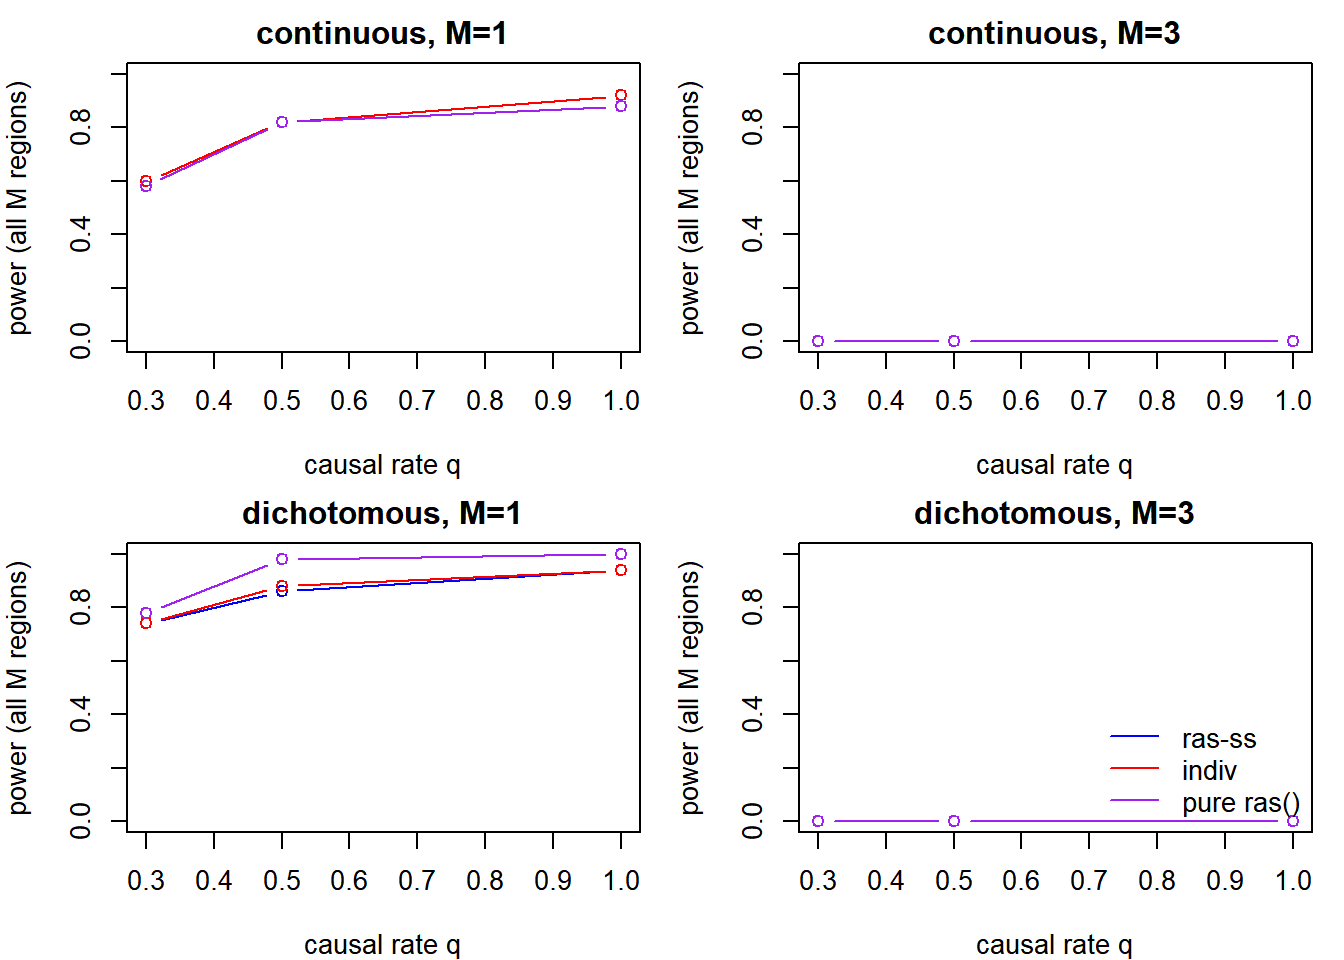
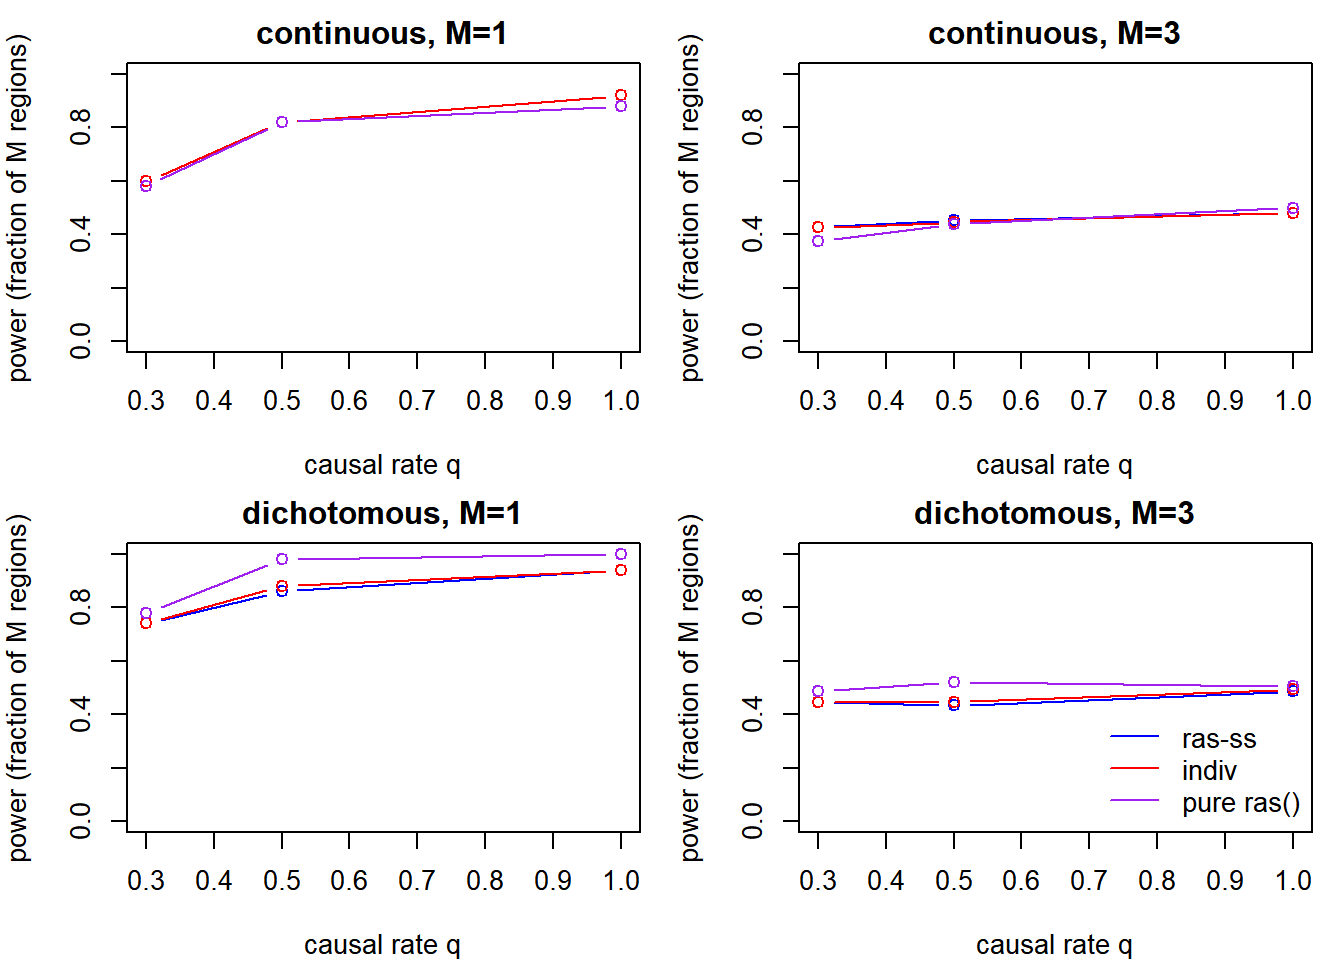
improve clarity for first few chunks

diff --git a/docs/03_simulation.html b/docs/03_simulation.html
@@ -532,15 +532,15 @@ project makes it easier to run your code on other machines.</p>
 <div class="panel panel-default">
 <div class="panel-heading">
 <p class="panel-title">
-<a data-toggle="collapse" data-parent="#workflowr-checks" href="#strongRepositoryversionstrongahrefhttpsansonli8githubcomansonli8rassstreea7769420beb51d1c0245b3f5682bed089a733b7atargetblanka776942a">
+<a data-toggle="collapse" data-parent="#workflowr-checks" href="#strongRepositoryversionstrongahrefhttpsansonli8githubcomansonli8rassstree6d83792f967585a6b3da43d0a43126d2503ef939targetblank6d83792a">
 <span class="glyphicon glyphicon-ok text-success"
 aria-hidden="true"></span> <strong>Repository version:</strong>
-<a href="https://anson-li8@github.com/anson-li8/ras-ss/tree/a7769420beb51d1c0245b3f5682bed089a733b7a" target="_blank">a776942</a>
+<a href="https://anson-li8@github.com/anson-li8/ras-ss/tree/6d83792f967585a6b3da43d0a43126d2503ef939" target="_blank">6d83792</a>
 </a>
 </p>
 </div>
 <div
[2 lines of base64/hex data omitted]
 class="panel-collapse collapse">
 <div class="panel-body">
 <p>
@@ -550,7 +550,7 @@ reproducibility.
 </p>
 <p>
 The results in this page were generated with repository version
-<a href="https://anson-li8@github.com/anson-li8/ras-ss/tree/a7769420beb51d1c0245b3f5682bed089a733b7a" target="_blank">a776942</a>.
+<a href="https://anson-li8@github.com/anson-li8/ras-ss/tree/6d83792f967585a6b3da43d0a43126d2503ef939" target="_blank">6d83792</a>.
 See the <em>Past versions</em> tab to see a history of the changes made
 to the R Markdown and HTML files.
 </p>
@@ -617,6 +617,40 @@ Message
 </tr>
 </thead>
 <tbody>
+<tr>
+<td>
+Rmd
+</td>
+<td>
+<a href="https://anson-li8@github.com/anson-li8/ras-ss/blob/6d83792f967585a6b3da43d0a43126d2503ef939/analysis/03_simulation.Rmd" target="_blank">6d83792</a>
+</td>
+<td>
+Anson Li
+</td>
+<td>
+2026-08-12
+</td>
+<td>
+check following the all M regions metric original paper used
+</td>
+</tr>
+<tr>
+<td>
+html
+</td>
+<td>
+<a href="https://anson-li8@github.com/anson-li8/ras-ss/blob/6d83792f967585a6b3da43d0a43126d2503ef939/docs/03_simulation.html" target="_blank">6d83792</a>
+</td>
+<td>
+Anson Li
+</td>
+<td>
+2026-08-12
+</td>
+<td>
+check following the all M regions metric original paper used
+</td>
+</tr>
 <tr>
 <td>
 Rmd
@@ -3998,13 +4032,20 @@ cheaper than 5-averaged pure)</caption>
 </tr>
 </tbody>
 </table>
-<pre class="r"><code># Fig 2: power (all M regions) vs q, clean lines (CIs live in the tables)
+<pre class="r"><code># per-region detection rate (the informative metric on synthetic saturated peaks)
+res$ss_pow &lt;- 1 - res$ss_fn / res$M
+res$in_pow &lt;- 1 - res$in_fn / res$M
+res$pu_pow &lt;- 1 - res$pu_fn / res$M
+agg &lt;- aggregate(cbind(ss_pow, in_pow, pu_pow, ss_power, in_power, pu_power,
+                       ss_fpr, in_fpr, pu_fpr) ~ trait + M + q, data=res, mean)
+
+# Fig 2: power (fraction of M regions detected) vs q
 par(mfrow=c(2,2), mar=c(4,4,2,1))
 for (tr in traits) for (M in M_vals) {
   a &lt;- agg[agg$trait==tr &amp; agg$M==M,]
-  plot(a$q, a$ss_power, type=&quot;b&quot;, col=&quot;blue&quot;, ylim=c(0,1), xlab=&quot;causal rate q&quot;,
-       ylab=&quot;power (all M regions)&quot;, main=sprintf(&quot;%s, M=%d&quot;, tr, M))
-  lines(a$q, a$in_power, type=&quot;b&quot;, col=&quot;red&quot;); lines(a$q, a$pu_power, type=&quot;b&quot;, col=&quot;purple&quot;)
+  plot(a$q, a$ss_pow, type=&quot;b&quot;, col=&quot;blue&quot;, ylim=c(0,1), xlab=&quot;causal rate q&quot;,
+       ylab=&quot;power (fraction of M regions)&quot;, main=sprintf(&quot;%s, M=%d&quot;, tr, M))
+  lines(a$q, a$in_pow, type=&quot;b&quot;, col=&quot;red&quot;); lines(a$q, a$pu_pow, type=&quot;b&quot;, col=&quot;purple&quot;)
 }
 legend(&quot;bottomright&quot;, legend=c(&quot;ras-ss&quot;,&quot;indiv&quot;,&quot;pure ras()&quot;), col=c(&quot;blue&quot;,&quot;red&quot;,&quot;purple&quot;), lty=1, bty=&quot;n&quot;)</code></pre>
 <p><img src="figure/03_simulation.Rmd/results-1.png" alt="" width="672" style="display: block; margin: auto;" /></p>
@@ -4032,6 +4073,17 @@ Date
 <tbody>
 <tr>
 <td>
+<a href="https://anson-li8@github.com/anson-li8/ras-ss/blob/6d83792f967585a6b3da43d0a43126d2503ef939/docs/figure/03_simulation.Rmd/results-1.png" target="_blank">6d83792</a>
+</td>
+<td>
+Anson Li
+</td>
+<td>
+2026-08-12
+</td>
+</tr>
+<tr>
+<td>
 <a href="https://anson-li8@github.com/anson-li8/ras-ss/blob/a7769420beb51d1c0245b3f5682bed089a733b7a/docs/figure/03_simulation.Rmd/results-1.png" target="_blank">a776942</a>
 </td>
 <td>
@@ -4045,12 +4097,12 @@ Anson Li
 </table>
 </div>
 </div>
-<pre class="r"><code># Faithfulness as an equivalence scatter: points ON the diagonal = agreement
+<pre class="r"><code># Faithfulness scatter on the same per-region metric (points on diagonal = agreement)
 par(mfrow=c(1,2), mar=c(4,4,2,1))
-plot(agg$in_power, agg$ss_power, xlim=c(0,1), ylim=c(0,1), pch=16, col=&quot;blue&quot;,
+plot(agg$in_pow, agg$ss_pow, xlim=c(0,1), ylim=c(0,1), pch=16, col=&quot;blue&quot;,
      xlab=&quot;individual-level power&quot;, ylab=&quot;ras-ss power&quot;, main=&quot;ras-ss vs individual-level&quot;)
 abline(0,1, lty=2)
-plot(agg$pu_power, agg$ss_power, xlim=c(0,1), ylim=c(0,1), pch=16, col=&quot;purple&quot;,
+plot(agg$pu_pow, agg$ss_pow, xlim=c(0,1), ylim=c(0,1), pch=16, col=&quot;purple&quot;,
      xlab=&quot;pure ras() power&quot;, ylab=&quot;ras-ss power&quot;, main=&quot;ras-ss vs gold standard&quot;)
 abline(0,1, lty=2)</code></pre>
 <p><img src="figure/03_simulation.Rmd/results-2.png" alt="" width="672" style="display: block; margin: auto;" /></p>
@@ -4078,6 +4130,17 @@ Date
 <tbody>
 <tr>
 <td>
+<a href="https://anson-li8@github.com/anson-li8/ras-ss/blob/6d83792f967585a6b3da43d0a43126d2503ef939/docs/figure/03_simulation.Rmd/results-2.png" target="_blank">6d83792</a>
+</td>
+<td>
+Anson Li
+</td>
+<td>
+2026-08-12
+</td>
+</tr>
+<tr>
+<td>
 <a href="https://anson-li8@github.com/anson-li8/ras-ss/blob/a7769420beb51d1c0245b3f5682bed089a733b7a/docs/figure/03_simulation.Rmd/results-2.png" target="_blank">a776942</a>
 </td>
 <td>
@@ -4091,7 +4154,7 @@ Anson Li
 </table>
 </div>
 </div>
-<pre class="r"><code># FPR-A as a compact table (all ~0; a flat figure adds nothing)
+<pre class="r"><code># FPR-A as a compact table
 fpr_tab &lt;- aggregate(cbind(ss_fpr, in_fpr, pu_fpr) ~ trait + M + q, data=res, mean)
 names(fpr_tab)[4:6] &lt;- c(&quot;ras-ss&quot;,&quot;indiv&quot;,&quot;pure ras()&quot;)
 fpr_tab[,4:6] &lt;- round(fpr_tab[,4:6], 2)
